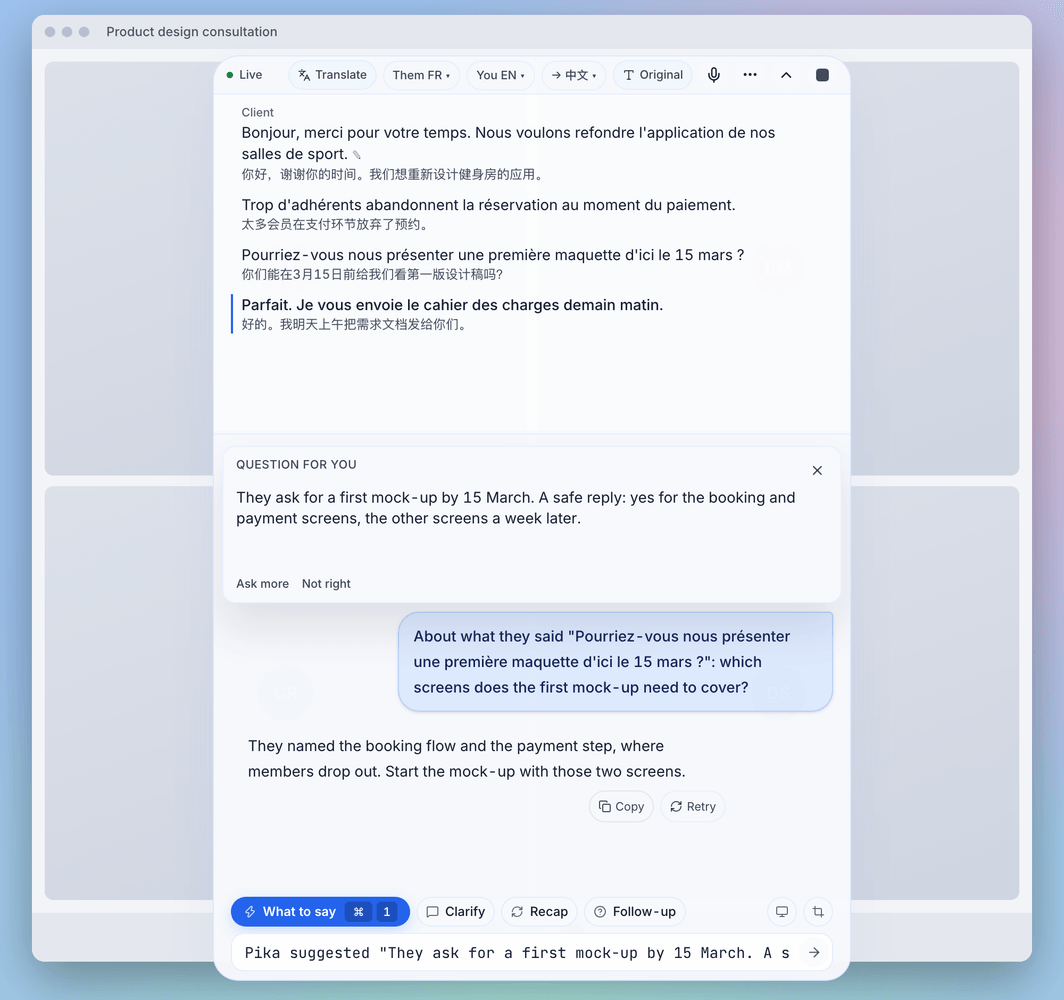
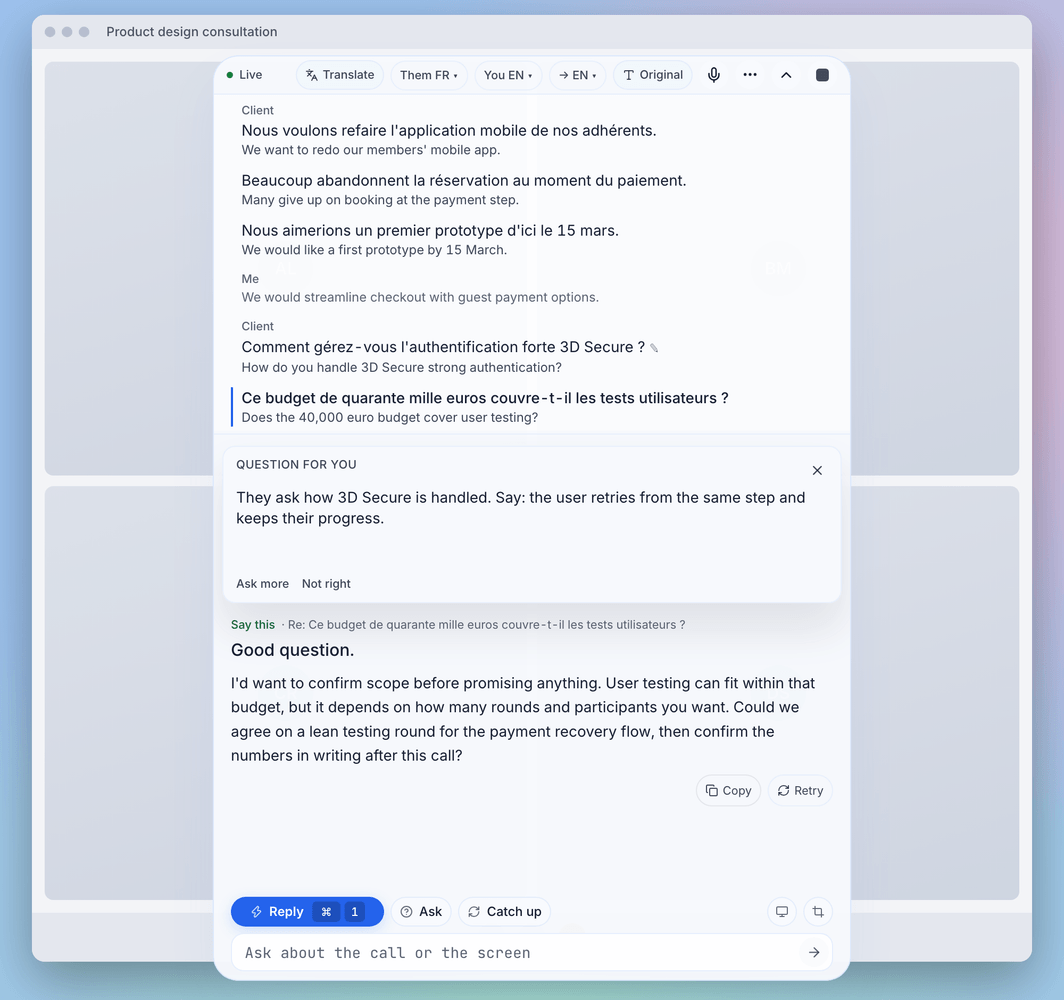
docs(readme): re-render the product images with the Reply, Ask and Catch up buttons

diff --git a/demo/shots/fixture.ts b/demo/shots/fixture.ts
@@ -1,6 +1,6 @@
 // Sample content, invented for illustration. No real meeting, person or product appears here.
 // The types come from the app's own IPC types: a change to them fails `tsc` here.
-import type { AgentEvent, AgentProactiveCard, ElectronAPI } from '../../src/types/electron';
+import type { AgentProactiveCard, ElectronAPI } from '../../src/types/electron';
 
 type Transcript = Parameters<Parameters<ElectronAPI['onNativeAudioTranscript']>[0]>[0];
 
@@ -10,14 +10,10 @@ export type SceneId = 'class' | 'client';
 export type Step =
   | { kind: 'transcript'; transcript: Transcript }
   | { kind: 'card'; card: AgentProactiveCard }
-  /** Presses the "ask the agent about this line" button of the row with this segment id. */
-  | { kind: 'askLine'; segmentId: string }
-  /** Presses "Not right" on the card. */
-  | { kind: 'notRight' }
-  /** Adds text at the end of the chat input, then sends it. */
-  | { kind: 'submit'; append: string }
-  /** The agent's reply to the submitted question. */
-  | { kind: 'agent'; events: AgentEvent[] };
+  /** Presses the Reply button of the chat. */
+  | { kind: 'reply' }
+  /** The reply the model streams back into the chat. */
+  | { kind: 'stream'; text: string };
 
 export interface Scene {
   id: SceneId;
@@ -53,41 +49,34 @@ function card(segmentId: string, kind: AgentProactiveCard['kind'], text: string)
   return { kind: 'card', card: { id: `card-${segmentId}`, meetingId: MEETING_ID, segmentId, kind, text, time: BASE + 120000 } };
 }
 
-function answer(text: string): Step {
-  const events: AgentEvent[] = [
-    { meetingId: MEETING_ID, type: 'run_started' },
-    { meetingId: MEETING_ID, type: 'text_final', text },
-    { meetingId: MEETING_ID, type: 'run_settled' },
-  ];
-  return { kind: 'agent', events };
-}
-
 export const classScene: Scene = {
   id: 'class',
   callTitle: 'CS 201 · Hash tables and Big-O',
   themLanguage: 'english-us',
   targetLanguage: 'chinese',
   steps: [
-    ...them(1, 'Lecturer', 'Today we look at hash tables, and why they are fast.', '今天我们讲哈希表，以及它为什么快。'),
+    ...them(1, 'Lecturer', "Today: hash tables, with constant-time lookup on average.", '今天讲哈希表，平均查找是常数时间。'),
     ...them(
       2,
       'Lecturer',
-      'A hash table maps a key to a bucket with a hash function.',
-      '哈希表用哈希函数把键映射到一个桶。',
-      'A hash cable maps a key to a bucket with a hash function.'
+      "Two keys can land on the same index. That's a collision.",
+      '两个键可能落在同一个索引上，这就是冲突。',
+      "Two keys can land on the same index. That's a collusion."
     ),
-    ...them(3, 'Lecturer', 'Lookup is O(1) on average, but O(n) in the worst case.', '查找平均是 O(1)，最坏情况是 O(n)。'),
-    mine(4, 'So a collision is what makes it slow?'),
-    ...them(5, 'Lecturer', 'Right. We handle collisions with chaining or open addressing.', '对。处理冲突可以用链地址法或开放寻址法。'),
+    mine(3, 'So what happens when two keys get the same index?'),
+    ...them(4, 'Lecturer', 'The table needs a strategy, like chaining: each slot holds a linked list.', '哈希表需要冲突处理策略，比如链地址法：每个槽位存一个链表。'),
+    ...them(5, 'Lecturer', 'The cost depends on the load factor: items divided by slots.', '代价取决于负载因子：元素数除以槽位数。'),
     card(
       'them-5',
       'explain_term',
-      'Open addressing: on a collision, the table probes other slots in a fixed order (linear probing, for example) until it finds a free one. No linked lists are used.'
+      'Load factor: items divided by slots. Small means short chains and O(1) lookups; large drifts toward O(n).'
     ),
-    { kind: 'submit', append: 'Chaining or open addressing: which is faster in practice?' },
-    answer(
-      'Open addressing is often faster on small tables: probing stays cache friendly. Chaining degrades more gently at a high load factor. Name both and state the trade-off.'
-    ),
+    ...them(6, 'Lecturer', 'Resize at a threshold, say 0.75: allocate a bigger array and rehash.', '超过阈值（比如0.75）就扩容：分配更大的数组并重新哈希。'),
+    { kind: 'reply' },
+    {
+      kind: 'stream',
+      text: 'Got it. So if one insert triggers an O(n) rehash, why is the amortized cost still constant? Is it because the expensive resizes get rarer as the array doubles?',
+    },
   ],
 };
 
@@ -95,27 +84,30 @@ export const clientScene: Scene = {
   id: 'client',
   callTitle: 'Product design consultation',
   themLanguage: 'french',
-  targetLanguage: 'chinese',
+  targetLanguage: 'english-us',
   steps: [
+    ...them(1, 'Client', "Nous voulons refaire l'application mobile de nos adhérents.", 'We want to redo our members\' mobile app.'),
+    ...them(2, 'Client', 'Beaucoup abandonnent la réservation au moment du paiement.', 'Many give up on booking at the payment step.'),
+    ...them(3, 'Client', "Nous aimerions un premier prototype d'ici le 15 mars.", 'We would like a first prototype by 15 March.'),
+    mine(4, 'We would streamline checkout with guest payment options.'),
     ...them(
-      1,
+      5,
       'Client',
-      "Bonjour, merci pour votre temps. Nous voulons refondre l'application de nos salles de sport.",
-      '你好，谢谢你的时间。我们想重新设计健身房的应用。',
-      "Bonjour, merci pour votre temps. Nous voulons refonder l'application de nos salles de sport."
+      "Comment gérez-vous l'authentification forte 3D Secure ?",
+      'How do you handle 3D Secure strong authentication?',
+      "Comment gérez-vous l'authentification fort 3D Secours ?"
     ),
-    ...them(2, 'Client', "Trop d'adhérents abandonnent la réservation au moment du paiement.", '太多会员在支付环节放弃了预约。'),
-    ...them(3, 'Client', "Pourriez-vous nous présenter une première maquette d'ici le 15 mars ?", '你们能在3月15日前给我们看第一版设计稿吗？'),
     card(
-      'them-3',
+      'them-5',
       'answer_question',
-      'They ask for a first mock-up by 15 March. A safe reply: yes for the booking and payment screens, the other screens a week later.'
+      'They ask how 3D Secure is handled. Say: the user retries from the same step and keeps their progress.'
     ),
-    { kind: 'askLine', segmentId: 'them-3' },
-    { kind: 'submit', append: 'which screens does the first mock-up need to cover?' },
-    answer('They named the booking flow and the payment step, where members drop out. Start the mock-up with those two screens.'),
-    ...them(4, 'Client', 'Parfait. Je vous envoie le cahier des charges demain matin.', '好的。我明天上午把需求文档发给你们。'),
-    { kind: 'notRight' },
+    ...them(6, 'Client', 'Ce budget de quarante mille euros couvre-t-il les tests utilisateurs ?', 'Does the 40,000 euro budget cover user testing?'),
+    { kind: 'reply' },
+    {
+      kind: 'stream',
+      text: "Good question. I'd want to confirm scope before promising anything. User testing can fit within that budget, but it depends on how many rounds and participants you want. Could we agree on a lean testing round for the payment recovery flow, then confirm the numbers in writing after this call?",
+    },
   ],
 };
 

diff --git a/demo/shots/main.tsx b/demo/shots/main.tsx
@@ -23,7 +23,7 @@ const scene = scenes[sceneId];
 
 document.documentElement.setAttribute('data-theme', theme);
 document.documentElement.setAttribute('data-platform', 'darwin');
-// The split between transcript and chat is the user's own setting: here it gives the transcript the rows and the chat the card and an answer.
+// The split between transcript and chat is the user's own setting: here it gives the transcript the rows and the chat the card and a reply.
 localStorage.setItem('pika_splitter_position', '38');
 const { emit } = installElectronStub(scene);
 
@@ -43,46 +43,30 @@ function press(find: () => HTMLElement | undefined | null, what: string) {
 const byLabel = (label: string) => document.querySelector<HTMLElement>(`[aria-label="${label}"]`);
 
 /** Runs one step through the event or the control the app already has. */
-async function run(step: Step, lines: Map<string, string>) {
+async function run(step: Step) {
   switch (step.kind) {
     case 'transcript':
-      if (step.transcript.segmentId && step.transcript.final) lines.set(step.transcript.segmentId, step.transcript.text);
       emit('onNativeAudioTranscript', step.transcript);
       break;
     case 'card':
       emit('onAgentProactive', step.card);
       break;
-    case 'askLine': {
-      const text = lines.get(step.segmentId) ?? '';
-      press(() => Array.from(document.querySelectorAll<HTMLElement>('[data-ask-line]')).find((b) => b.closest('.group')?.textContent?.includes(text)), 'the ask-line button');
+    case 'reply':
+      press(() => byLabel('Reply'), 'the Reply button');
       break;
-    }
-    case 'notRight':
-      press(() => Array.from(document.querySelectorAll<HTMLElement>('aside button')).find((b) => b.textContent === 'Not right'), 'the Not right button');
-      break;
-    case 'submit': {
-      const input = document.querySelector<HTMLInputElement>('input[aria-label="Ask a question"]');
-      if (!input) throw new Error('Shot replay: the chat input not found');
-      setInputValue(input, input.value + step.append);
-      await wait(100);
-      press(() => byLabel('Send'), 'the send button');
-      break;
-    }
-    case 'agent':
-      await wait(300);
-      for (const event of step.events) {
-        emit('onAgentEvent', event);
-        await wait(80);
-      }
+    case 'stream':
+      await wait(800);
+      emit('onGeminiStreamToken', step.text);
+      await wait(80);
+      emit('onGeminiStreamDone', undefined);
       break;
   }
 }
 
 async function replay(current: Scene) {
   await wait(500);
-  const lines = new Map<string, string>();
   for (const step of current.steps) {
-    await run(step, lines);
+    await run(step);
     await wait(120);
   }
   await wait(800);

diff --git a/demo/shots/stub.ts b/demo/shots/stub.ts
@@ -43,7 +43,6 @@ export function installElectronStub(scene: Scene): { emit: (event: string, paylo
     getUndetectable: async () => false,
     getMicrophoneMuted: async () => false,
     getOverlayMousePassthrough: async () => false,
-    getActionButtonMode: async () => 'recap',
   };
 
   const api = new Proxy(overrides, {

diff --git a/README.md b/README.md
@@ -19,8 +19,8 @@ Pika is an open-source desktop overlay: a small, translucent, always-on-top wind
 It is for classes and lectures, work meetings and everyday calls, in your language or another one. You bring your own models and keys. Meeting records, notes and credentials stay on your machine, and the app has no telemetry.
 
 <p align="center">
-  <img src="docs/images/class-dark.png" alt="Pika during a computer science lecture: live transcript with Chinese translation, a term card and an answer" width="49%">
-  <img src="docs/images/client-light.png" alt="Pika during a call with a client abroad: French transcript with Chinese translation, a question card and the chat" width="49%">
+  <img src="docs/images/class-dark.png" alt="Pika during a computer science lecture: live transcript with Chinese translation, a term card and a suggested reply" width="49%">
+  <img src="docs/images/client-light.png" alt="Pika during a call with a client abroad: French transcript with English translation, a question card and a suggested reply" width="49%">
 </p>
 <p align="center"><sub>Sample content, invented for illustration.</sub></p>
 
